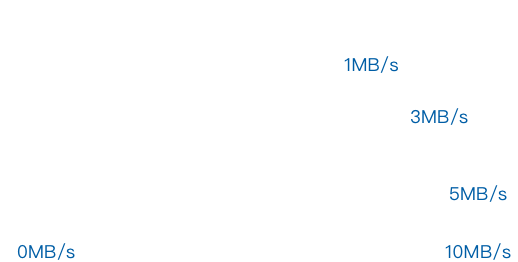
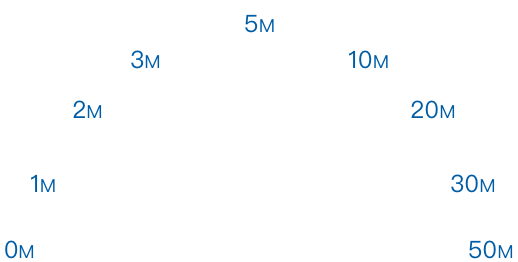
WiFi测速修改

diff --git a/DGInfinity/DGInfinity/Class/View/WiFiSpeedView/WiFiSpeedView.m b/DGInfinity/DGInfinity/Class/View/WiFiSpeedView/WiFiSpeedView.m
@@ -150,7 +150,7 @@ const float EPSINON = 0.00001;
 #pragma mark -
 #pragma mark ======================= WFNetworkSpeedDetectorDelegate 方法 =======================
 /**
- *  计算的平均速度，单位为b
+ *  计算的平均速度，单位为B
  *
  *  @param speed 平均速度
  */
@@ -168,13 +168,20 @@ const float EPSINON = 0.00001;
 }
 
 /**
- *  计算的平均速度，单位为b
+ *  计算的平均速度，单位为B
  *
  *  @param speed 平均速度
  */
 
 - (void)didDetectRealtimeSpeed:(CGFloat)speed
 {
+    NSString *speedStr = [self formatSpeed:speed / 1024];
+    NSMutableAttributedString *attributedString = [[NSMutableAttributedString alloc] initWithString:speedStr];
+    [attributedString addAttributes:@{NSFontAttributeName: SystemFont(24), NSForegroundColorAttributeName: [UIColor whiteColor]} range:NSMakeRange(0, speedStr.length - 4)];
+    [attributedString addAttributes:@{NSFontAttributeName: SystemFont(14), NSForegroundColorAttributeName: [UIColor whiteColor]} range:NSMakeRange(speedStr.length - 4, 4)];
+    _speedLbl.attributedText = attributedString;
+    CGSize size = [_speedLbl sizeThatFits:CGSizeZero];
+    _speedLbl.frame = CGRectMake(0, _descLbl.y - 10 - size.height, self.width, size.height);
     [self calculateSpeed:speed];
 }
 
@@ -202,7 +209,16 @@ const float EPSINON = 0.00001;
 
 - (void)stopSpeedDetectionAnimation
 {
-    _speedLbl.text = _record.speed;
+    if (_record.speed.length) {
+        NSMutableAttributedString *attributedString = [[NSMutableAttributedString alloc] initWithString:_record.speed];
+        [attributedString addAttributes:@{NSFontAttributeName: SystemFont(30), NSForegroundColorAttributeName: COLOR(255, 236, 0, 1)} range:NSMakeRange(0, _record.speed.length - 4)];
+        [attributedString addAttributes:@{NSFontAttributeName: SystemFont(14), NSForegroundColorAttributeName: COLOR(255, 236, 0, 1)} range:NSMakeRange(_record.speed.length - 4, 4)];
+        _speedLbl.attributedText = attributedString;
+        CGSize size = [_speedLbl sizeThatFits:CGSizeZero];
+        _speedLbl.frame = CGRectMake(0, _descLbl.y - 10 - size.height, self.width, size.height);
+    } else {
+        _speedLbl.text = nil;
+    }
     _descLbl.text = _record.desc;
     if (_testBtn.tag == TestBtnStatusTesting && [WFNetworkSpeedDetector sharedSpeedDetector].isSpeedDetecting) {
         _maskLayer.strokeEnd = 0.f;
@@ -228,7 +244,7 @@ const float EPSINON = 0.00001;
 /**
  *  速度格式化和显示的入口方法
  *
- *  @param speed 以b为单位的速度。
+ *  @param speed 以B为单位的速度。
  */
 - (void)calculateSpeed:(CGFloat)speed
 {
@@ -238,7 +254,7 @@ const float EPSINON = 0.00001;
 /**
  *  进行绘制相关的scale上面的刻度显示
  *
- *  @param speed 当前测出的速度，以kb为单位。
+ *  @param speed 当前测出的速度，以B为单位。
  */
 
 - (void)strokeCurrentSpeed:(CGFloat)speed
@@ -252,18 +268,30 @@ const float EPSINON = 0.00001;
 }
 
 //传入的speed的单位是KB
-- (NSString *)formatSpeed:(CGFloat)speedkb
+- (NSString *)formatSpeed:(CGFloat)speedKB
 {
+    /*
     NSString *formatedSpeed = [NSString new];
     
-    if ( speedkb >= 0 && speedkb < 10) {
-        formatedSpeed = [NSString stringWithFormat:@"%.2fK/s", speedkb];
-    }else if (speedkb >= 10 && speedkb < 100){
-        formatedSpeed = [NSString stringWithFormat:@"%.1fK/s", speedkb];
-    }else if (speedkb >= 100 && speedkb < 1024){
-        formatedSpeed = [NSString stringWithFormat:@"%.0fK/s", speedkb];
-    }else if (speedkb >= 1024){
-        formatedSpeed = [NSString stringWithFormat:@"%.2fM/s",speedkb/1024];
+    if ( speedKB >= 0 && speedKB < 10) {
+        formatedSpeed = [NSString stringWithFormat:@"%.2fK/s", speedKB];
+    }else if (speedKB >= 10 && speedKB < 100){
+        formatedSpeed = [NSString stringWithFormat:@"%.1fK/s", speedKB];
+    }else if (speedKB >= 100 && speedKB < 1024){
+        formatedSpeed = [NSString stringWithFormat:@"%.0fK/s", speedKB];
+    }else if (speedKB >= 1024){
+        formatedSpeed = [NSString stringWithFormat:@"%.2fM/s",speedKB/1024];
+    }
+    return formatedSpeed;
+     */
+    CGFloat speedMb = speedKB / 1024 * 8;
+    NSString *formatedSpeed = nil;
+    if (speedMb < 1) {
+        formatedSpeed = [NSString stringWithFormat:@"%.2fMbps", speedMb];
+    } else if (speedMb >= 1 && speedMb < 10) {
+        formatedSpeed = [NSString stringWithFormat:@"%.1fMbps", speedMb];
+    } else {
+        formatedSpeed = [NSString stringWithFormat:@"%.0fMbps", speedMb];
     }
     return formatedSpeed;
 }
@@ -304,6 +332,7 @@ const float EPSINON = 0.00001;
 - (CGFloat)speedToAngle:(CGFloat)speed
 {
     CGFloat angle = 0;
+    /*
     if (speed < 1024) {
         angle = 0;
     } else if (speed < 1024 * 1024 && speed >= 1024) {
@@ -319,27 +348,49 @@ const float EPSINON = 0.00001;
         angle = 180;
     }
     return angle;
+     */
+    CGFloat speedMb = speed / 1024 / 1024 * 8;
+    if (speedMb < 3) {
+        // 0~3M，每0.5M 11.25度
+        angle = speedMb / 0.5 * 11.25;
+    } else if (speedMb >= 3 && speedMb < 5) {
+        // 3~5M，每1M 11.25度
+        angle = (speedMb - 3) * 11.25 + 67.5;
+    } else if (speedMb >= 5 && speedMb < 10) {
+        // 5~10M，每2.5M 11.25度
+        angle = (speedMb - 5) / 2.5 * 11.25 + 90;
+    } else if (speedMb >= 10 && speedMb < 30) {
+        // 10~30M，每5M 11.25度
+        angle = (speedMb - 10) / 5 * 11.25 + 112.5;
+    } else if (speedMb >=30 && speedMb < 50) {
+        // 30~50M，每10M 11.25度
+        angle = (speedMb - 30) / 10 * 11.25 + 157.5;
+    } else {
+        // 超出50M
+        angle = 180;
+    }
+    return angle;
 }
 
 /**
  *  网络速度评价分级
  *
- *  @param speedkb 检测到的数据，以KB为单位。
+ *  @param speedKB 检测到的数据，以KB为单位。
  */
 
-- (void)evalueSpeed:(CGFloat)speedkb
+- (void)evalueSpeed:(CGFloat)speedKB
 {
     NSString *text = @"";
-    if (speedkb <= 0 && speedkb < 20) {
+    if (speedKB <= 0 && speedKB < 20) {
         text = @"聊天";
-    } else if (speedkb < 80) {
+    } else if (speedKB < 80) {
         text = @"聊天、上网";
-    } else if (speedkb < 150) {
+    } else if (speedKB < 150) {
         text = @"聊天、上网、玩游戏";
     } else {
         text = @"聊天、上网、玩游戏、看视频";
     }
-    [self showCurrentSpeed:speedkb];
+    [self showCurrentSpeed:speedKB];
     NSString *desc = [NSString stringWithFormat:@"当前网速适合:%@",text];
     _record.desc = desc;
 }

diff --git a/DGInfinity/DGInfinity/Class/View/WiFiSpeedView/WFNetworkSpeedDetector.m b/DGInfinity/DGInfinity/Class/View/WiFiSpeedView/WFNetworkSpeedDetector.m
@@ -147,13 +147,13 @@ static WFNetworkSpeedDetector * wfnetworkSpeedDetector;
         
         if (_ignoreFirstDataPack) {
             _ignoreFirstDataPack = NO;
-            NSTimeInterval intervalSinceBegin = [currentDate timeIntervalSinceDate:_beginDate];
-            CGFloat realtimeSpeed = _acceptTotalDataLength/(intervalSinceBegin  * 5);//第一次数字一般计算非常大
-            if (self.delegate && [self.delegate respondsToSelector:@selector(didDetectRealtimeSpeed:)]) {
-                dispatch_async(dispatch_get_main_queue(), ^{
-                    [self.delegate didDetectRealtimeSpeed:realtimeSpeed];
-                });
-            }
+//            NSTimeInterval intervalSinceBegin = [currentDate timeIntervalSinceDate:_beginDate];
+//            CGFloat realtimeSpeed = _acceptTotalDataLength/(intervalSinceBegin  * 5);//第一次数字一般计算非常大
+//            if (self.delegate && [self.delegate respondsToSelector:@selector(didDetectRealtimeSpeed:)]) {
+//                dispatch_async(dispatch_get_main_queue(), ^{
+//                    [self.delegate didDetectRealtimeSpeed:realtimeSpeed];
+//                });
+//            }
             _lastDate = currentDate;
         }else{
             
